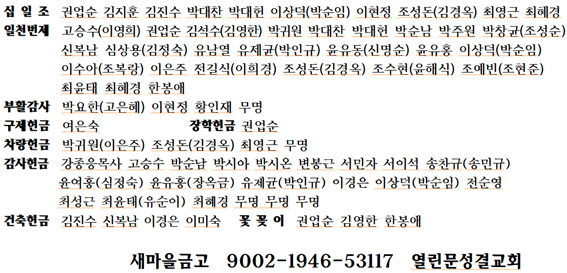
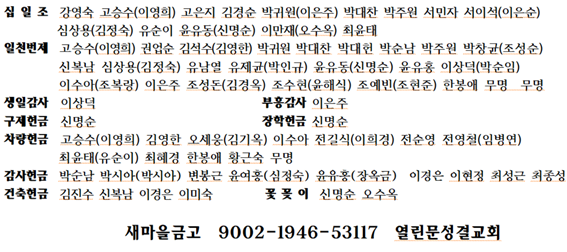
202030429
asd

diff --git a/index.html b/index.html
@@ -64,10 +64,10 @@
       <h1 class="home__title">
         열린문교회<br>
       </h1>
-      <h2 class="home__description">제 4권 17호 2023년 4월 23일</h2>
+      <h2 class="home__description">제 4권 18호 2023년 4월 30일</h2>
       
       <!-- 아래는 타이틀임, 안쓸 때는 주석처리하기로 -->
-      <h1 class="home__description_event">부활 후 둘째주일</h1>
+      <h1 class="home__description_event">부활 후 셋째주일</h1>
 
       <button class="home__contact" data-link="#contact">교회 안내</button>
     </section>
@@ -95,8 +95,8 @@
 
       <h2>주일 낮 예배</h2>
       <ul class="ul1">
-          <li>사회: 고승수 안수집사</li>
-          <li>다음주 사회: 오세웅 안수집사</li>
+          <li>사회: 오세웅 안수집사</li>
+          <li>다음주 사회: 최윤태 안수집사</li>
       </ul>
 
         <table>
@@ -107,7 +107,7 @@
               </tr>
               <tr>    
                   <th><i class="fas fa-male"></i> 찬송</th>
-                  <td>35장</td>
+                  <td>28장</td>
               </tr>
               <!-- <tr>
                   <th><i class="fas fa-male"></i> 교독문</th>
@@ -117,32 +117,31 @@
                   <td>사도신경</td>
               <tr>
                   <th>찬송</th>
-                  <td>445장</td>
+                  <td>91장</td>
               </tr>
               <tr>
                   <th>대표기도</th>
                   <td>
-                    1부 윤유홍 권사<br>
-                    2부 유제균 장로
+                    1부 전길식 집사<br>
+                    2부 고승수 안수집사
                   </td>
               </tr>
               <tr>
                   <th>성경봉독</th>
                   <td> 
-                    요한복음 2:1---11 (신약144) 
+                    이사야 40 : 27---31 (구약1015) 
                   </td>
               </tr>
               <tr>
                   <th>특송</th>
                   <td>
-                    1부  나의 갈 길 다가도록 <br>
-                    2부  주님 다시 오실 때까지 
+                    비전 찬양대
                   </td>
               </tr>
               <tr>
                 <th>봉헌</th>
                 <td>
-                  450장<br>
+                  383장<br>
                 </td>
               </tr>
               <tr>
@@ -157,7 +156,7 @@
                 <th>설교</th>
                 <td>
                   <strong>
-                    놀라운 영광
+                    새 힘을 주십니다
                   </strong>
                 </td>
             </tr>
@@ -169,7 +168,7 @@
               <tr>
                 <th>찬송</th>
                 <td>
-                  84 장 
+                  354 장 
                 </td>
               </tr>
               <tr>
@@ -198,8 +197,8 @@
               <tr>
                 <th>(다음주 기도)</th>
                 <td>
-                  1부 전길식 집사 <br>
-                  2부 고승수 안수집사
+                  1부 박순남  집사 <br>
+                  2부 오세웅 안수집사
                 </td>
               </tr>
           </tbody>
@@ -243,15 +242,15 @@
     </tr>
     <tr>
       <th>기도</th>
-      <td>이수아 권사</td>
+      <td>신명순 권사</td>
     </tr>
     <tr>
       <th>성경</th>
-      <td>창 42 : 26---38</td>
+      <td>창 43 : 1---15</td>
     </tr>
     <tr>
       <th>특송</th>
-      <td>반산구역</td>
+      <td>백자구역</td>
     </tr>
     <!-- <tr>
       <th>설교</th>
@@ -259,11 +258,11 @@
     </tr> -->
     <tr>
       <th>제목</th>
-      <td>온전한 회복을 위해</td>
+      <td>주님의 뜻을 이루소서</td>
     </tr>
     <tr>
       <th>찬송</th>
-      <td>220장, 좋으신 하나님</td>
+      <td>425장, 좋으신 하나님</td>
     </tr>
     <tr>
       <th>광고</th>
@@ -275,11 +274,11 @@
     </tr>
     <tr>
       <th>다음주 기도</th>
-      <td>신명순 권사</td>    
+      <td>유남열 권사</td>    
     </tr>
     <tr>
       <th>(다음주 특송)</th>
-      <td>백자구역</td>
+      <td>1남전도회</td>
     </tr>
   </tbody>
 </table>
@@ -300,17 +299,17 @@
         <th>기도</th>
         <td>합심기도</td>
       </tr>
-      <tr>
+      <!-- <tr>
         <th>설교</th>
         <td>조성돈 장로</td>
-      </tr>
+      </tr> -->
       <tr>
         <th>성경</th>
-        <td>히 11장 1,2</td>
+        <td>시편 109 편</td>
       </tr>
       <tr>
         <th>찬송</th>
-        <td>446장</td>
+        <td>88장</td>
       </tr>
       <tr>
         <th>합심기도</th>
@@ -403,14 +402,10 @@
         </div>
         <h1 class="major__title">암송말씀</h1>
         <div class="major__description">
-          <p>우리가 다 수건을 벗은 얼굴로</p>
-          <p>거울을 보는 것같이 주의
-            영광을 보매</p>
-          <p>그와 같은 형상으로 변화하여</p>
-          <p>영광에서 영광에
-            이르니</p>
-            <p>곧 주의 영으로 말미암음이니라</p>
-          <p>(고린도후서 3:18)</p>
+          <p>주 여호와는 나의 힘이시라</p>
+          <p>나의 발을 사슴과 같게 하사</p>
+          <p>나를 나의 높은 곳으로 다니게 하시리로다</p>
+          <p>(하박국3:19)</p>
         </div>
       </div>
     </section>
@@ -447,11 +442,11 @@
               </p><br>
 
               <p><a href="">3.</a>
-                2부 예배 후에 공동식사가 있습니다.(토종고기마을)
+                5월 월삭예배는 월요일 새벽 6시입니다.
               </p><br>
 
               <p><a href="">4.</a>
-                담임목사는 총동문 대회에 참석차 다녀옵니다.(4월 24일—26일)
+                다음주일 저녁예배는 5월 선교예배입니다.
               </p><br>
 
               <p><a href="">5.</a>
@@ -467,20 +462,24 @@
               </p><br>
 
               <p><a href="">7.</a>
-                간증하실 분들은 6, 7분 정도의 분량으로 준비해 주시기 바랍니다
+                간증하실 분들은 6, 7분 정도의 분량으로 준비해 주시기 바랍니다.
               </p><br>
 
               <p><a href="">8.</a>
-                입원(박시아—대전병원) 
+                충남지방회 교역자 5월 월례회 (5월 2일, 화)
+              </p><br>
+
+              <p><a href="">8.</a>
+                교우소식 : 새가족 (유병석—전순영집사), 떡 대접 (김정희 성도)
               </p><br>
 
               <!-- 다음달 예배위원 안내 -> 지우지 말고 주석 처리해서 활용하자 -->
-              <!-- <p>
+              <p>
                 <a href="">다음달 헌금위원</a><br>
-                박귀원 집사, 김성해 집사<br>
+                아수아 권사, 박인규 권사<br>
                 <a href="">다음달 안내위원</a><br>
-                고승수 안수집사, 임순석 집사<br>
-              </p> -->
+                전길식 집사, 박순남 집사<br>
+              </p>
 
               <!-- 행사 배너 이미지 넣는 곳 // 나중에 주석 풀고 넣던가 -->
               <!-- <div class="major__description">
